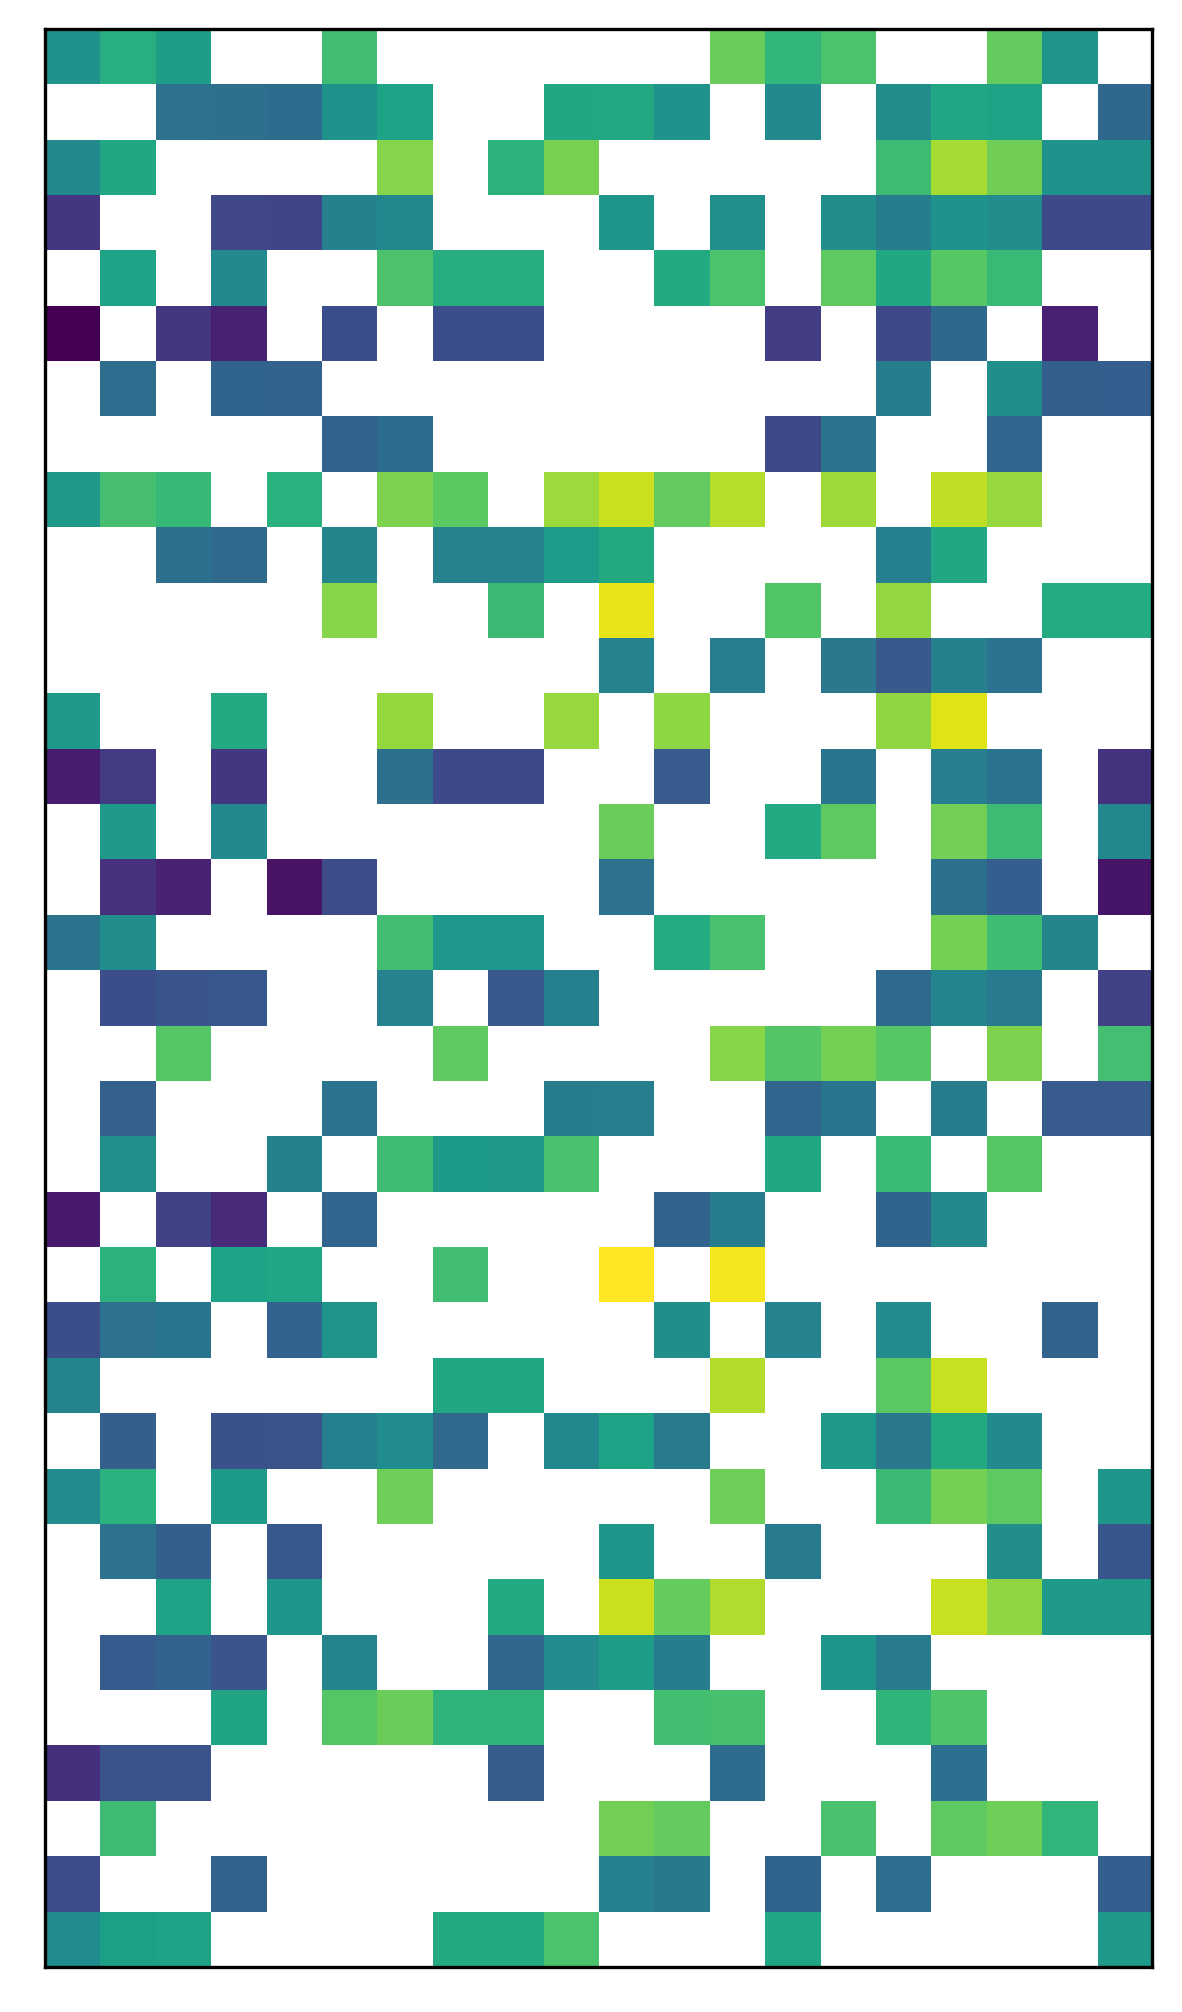
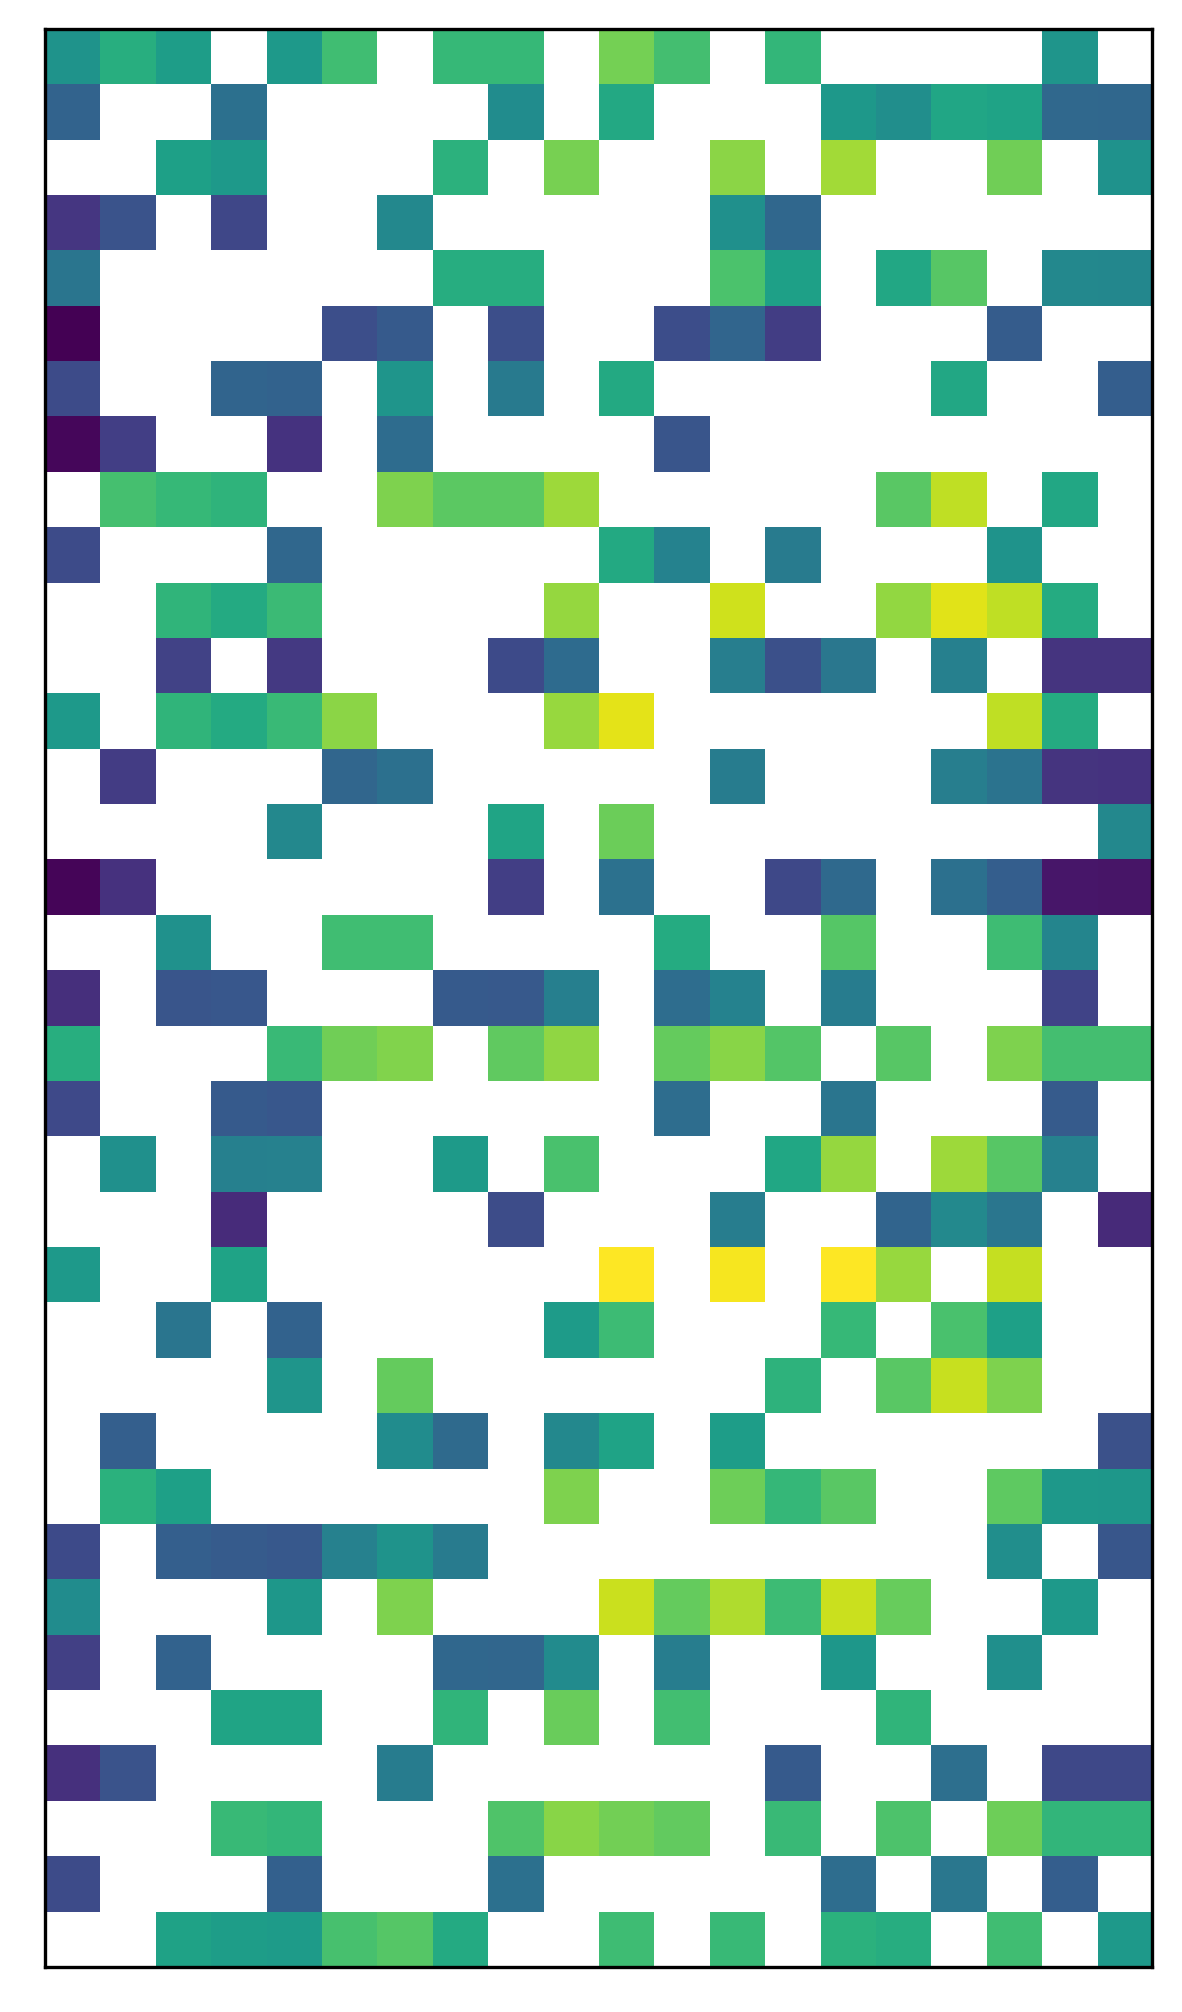
Set if2 -> if as default; more updated figures

diff --git a/experiments.py b/experiments.py
@@ -132,7 +132,7 @@ if __name__ == "__main__":
     p = ArgumentParser()
     p.add_argument("methods", nargs="+", default=[])
     p.add_argument("--dataset", "-d", default="data.npz")
-    p.add_argument("--interference", "-i", default="if2.npz")
+    p.add_argument("--interference", "-i", default="if.npz")
     p.add_argument("--no-baseline", dest="baseline", action='store_false')
     p.add_argument("--sparsity", "-s", nargs="+", type=float, default=None)
     p.set_defaults(baseline=True)
